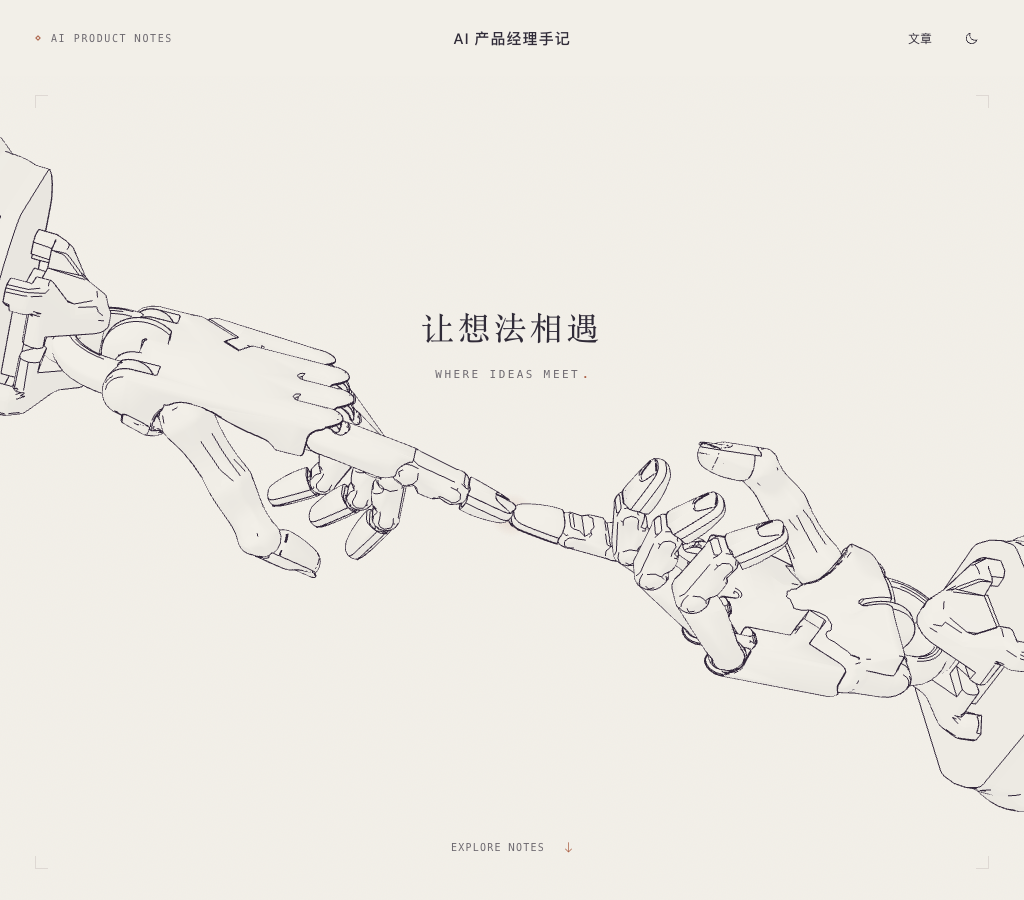
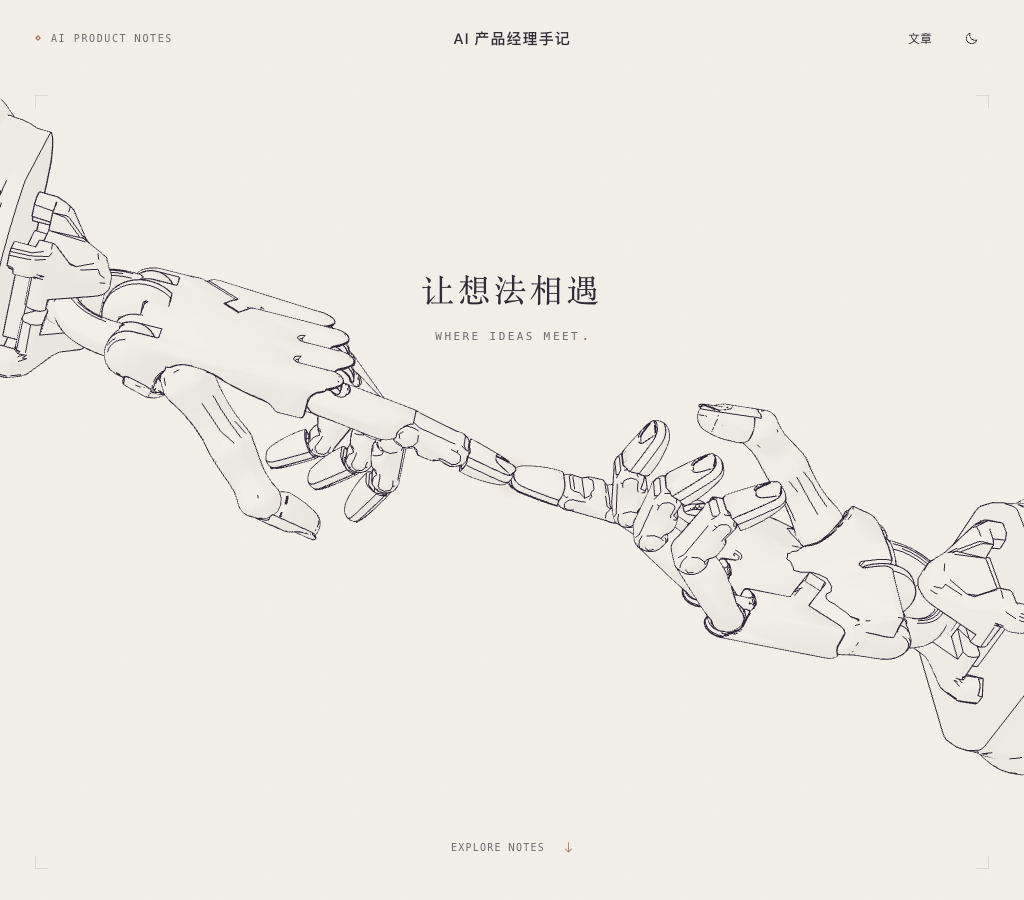
fix: extend the 3D hero behind transparent navigation

diff --git a/assets/css/hands-3d.css b/assets/css/hands-3d.css
@@ -1,3 +1,7 @@
+/* The scene reaches the viewport edge; the navigation does not reserve a strip. */
+.hands-3d-home .hands-masthead{position:absolute;inset:0 0 auto;background:transparent;pointer-events:none}
+.hands-3d-home .hands-masthead a,.hands-3d-home .hands-masthead button{pointer-events:auto}
+.hands-3d-home .hands-hero{height:100svh;min-height:686px;max-height:1176px}
 .hands-3d-stage{position:absolute;inset:0;pointer-events:none;z-index:1}
 .hands-3d-stage canvas{position:absolute;inset:0;display:block;width:100%;height:100%}
 .hands-3d-stage .hands-3d-poster{position:absolute;inset:0;width:100%;height:100%;object-fit:cover}
@@ -18,12 +22,13 @@
 .hero-en{margin:15px 0 0;font:11px/1.6 var(--mono);letter-spacing:.22em;color:var(--detail-ink);white-space:nowrap}
 .en-period{color:var(--accent);font-weight:700;margin-left:2px;letter-spacing:0}
 .hero-corner{position:absolute;z-index:0;width:13px;height:13px;border:0 solid var(--line);opacity:.78;pointer-events:none}
-.corner-tl{left:35px;top:19px;border-width:1px 0 0 1px}.corner-tr{right:35px;top:19px;border-width:1px 1px 0 0}.corner-bl{left:35px;bottom:31px;border-width:0 0 1px 1px}.corner-br{right:35px;bottom:31px;border-width:0 1px 1px 0}
+.corner-tl{left:35px;top:95px;border-width:1px 0 0 1px}.corner-tr{right:35px;top:95px;border-width:1px 1px 0 0}.corner-bl{left:35px;bottom:31px;border-width:0 0 1px 1px}.corner-br{right:35px;bottom:31px;border-width:0 1px 1px 0}
 .hero-read{position:absolute;left:50%;bottom:39px;transform:translateX(-50%);z-index:3;display:inline-flex;align-items:center;gap:19px;color:var(--detail-ink);font:10px/1.5 var(--mono);letter-spacing:.12em;padding:6px 0;white-space:nowrap}
 .hero-read svg{width:9px;height:13px;fill:none;stroke:var(--accent);stroke-width:1;transition:transform .2s}
 .hero-read:hover{color:var(--accent)}.hero-read:hover svg{transform:translateY(3px)}
 .contact-signal{position:absolute;left:var(--contact-x,50%);top:var(--contact-y,55%);width:46px;height:46px;transform:translate(-50%,-50%);border-radius:50%;opacity:var(--contact-alpha,0);background:radial-gradient(circle,color-mix(in srgb,var(--accent) 28%,transparent),transparent 68%);pointer-events:none}
 .contact-signal::after{content:"";position:absolute;left:50%;top:50%;width:3px;height:3px;transform:translate(-50%,-50%);border-radius:50%;background:var(--accent);opacity:.7}
 .writing-heading>span[lang=en]{font:10px var(--mono);letter-spacing:.14em}.writing-separator{display:inline-block;margin:0 13px;color:var(--accent);opacity:.65}
-@media(max-width:700px){.hands-3d-home .masthead-en{display:none}.hands-3d-home .hands-copy{top:calc(50% - 150px)}.hands-3d-home .hands-copy h1{font-size:32px}.hero-en{font-size:10px;letter-spacing:.19em;margin-top:13px}.hero-corner{width:10px;height:10px;opacity:.65}.corner-tl{left:23px;top:18px}.corner-tr{right:23px;top:18px}.corner-bl{left:23px;bottom:27px}.corner-br{right:23px;bottom:27px}.hero-read{bottom:33px;font-size:9px;gap:14px}.contact-signal{width:36px;height:36px}}
+@media(max-width:1100px){.hands-3d-home .hands-hero{min-height:696px}}
+@media(max-width:700px){.hands-3d-home .hands-hero{min-height:626px;max-height:966px}.hands-3d-home .masthead-en{display:none}.hands-3d-home .hands-copy{top:calc(50% - 150px)}.hands-3d-home .hands-copy h1{font-size:32px}.hero-en{font-size:10px;letter-spacing:.19em;margin-top:13px}.hero-corner{width:10px;height:10px;opacity:.65}.corner-tl{left:23px;top:84px}.corner-tr{right:23px;top:84px}.corner-bl{left:23px;bottom:27px}.corner-br{right:23px;bottom:27px}.hero-read{bottom:33px;font-size:9px;gap:14px}.contact-signal{width:36px;height:36px}}
 @media(prefers-reduced-motion:reduce){.hero-read svg{transition:none}}

diff --git a/_includes/home-hands-3d.html b/_includes/home-hands-3d.html
@@ -1,6 +1,6 @@
 <div class="hands-3d-stage" aria-hidden="true">
-  <picture class="hands-3d-poster poster-light"><source media="(max-width:700px)" srcset="{{ '/assets/images/hands-3d-mobile-light.png' | relative_url }}"><img src="{{ '/assets/images/hands-3d-desktop-light.png' | relative_url }}" alt="" fetchpriority="high"></picture>
-  <picture class="hands-3d-poster poster-dark"><source media="(max-width:700px)" srcset="{{ '/assets/images/hands-3d-mobile-dark.png' | relative_url }}"><img src="{{ '/assets/images/hands-3d-desktop-dark.png' | relative_url }}" alt=""></picture>
+  <picture class="hands-3d-poster poster-light"><source media="(max-width:700px)" srcset="{{ '/assets/images/hands-3d-mobile-light.png' | relative_url }}?v={{ site.time | date: '%s' }}"><img src="{{ '/assets/images/hands-3d-desktop-light.png' | relative_url }}?v={{ site.time | date: '%s' }}" alt="" fetchpriority="high"></picture>
+  <picture class="hands-3d-poster poster-dark"><source media="(max-width:700px)" srcset="{{ '/assets/images/hands-3d-mobile-dark.png' | relative_url }}?v={{ site.time | date: '%s' }}"><img src="{{ '/assets/images/hands-3d-desktop-dark.png' | relative_url }}?v={{ site.time | date: '%s' }}" alt=""></picture>
   <span class="contact-signal" aria-hidden="true"></span>
   <canvas></canvas>
 </div>

diff --git a/_prototype/README.md b/_prototype/README.md
@@ -4,6 +4,7 @@
 
 - 首屏以“让想法相遇”为主标题，配有简短英文、淡纸纹、细线与少量锈橙色；没有介绍段落、工程标注或场景控制面板。
 - 桌面页眉显示 AI PRODUCT NOTES，中央为 WHERE IDEAS MEET.；底部 EXPLORE NOTES 跳转到文章目录。手机隐藏页眉英文以保留空间。
+- 导航透明叠在首屏上方，三维画布从页面顶部开始，机械手不再被单独的页眉区域截断。导航的空白区域不拦截场景交互。
 - 两手缓慢轻触并活动关节，鼠标移动带有轻微相机视差。
 - 减少动态效果时停止自动播放；离屏或后台暂停渲染。
 - 无 WebGL 时显示同一场景渲染的三维静帧，分别适配桌面、手机与深浅色。
